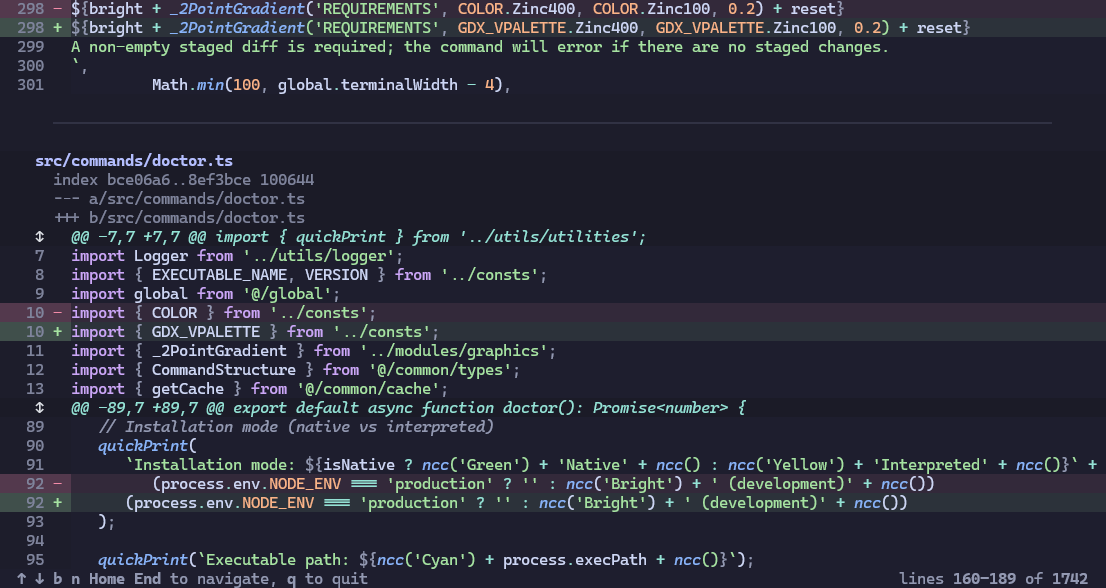
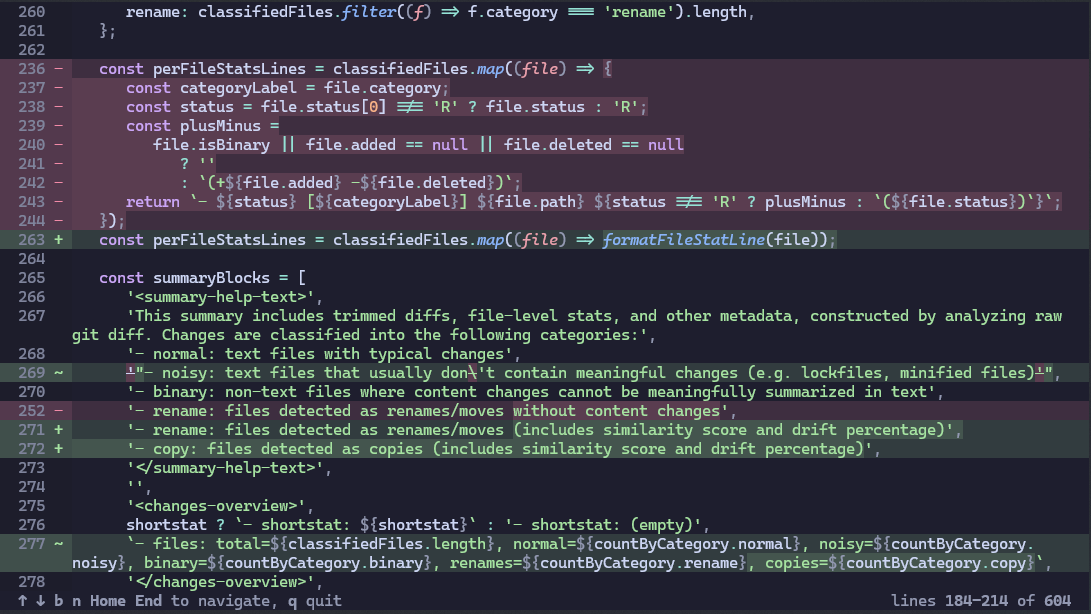
🧹 chore: Update README with new parallel commands and expanded command reference

diff --git a/README.md b/README.md
@@ -171,6 +171,9 @@ gdx parallel list    # See where your forks are
 gdx parallel switch  # Switch between forks (requires shell integration)
 gdx parallel open    # Open any fork in your default editor
 gdx parallel join    # Merge changes from a fork back to main
+gdx parallel sync    # Sync forks with the main (origin worktree)
+gdx parallel pick    # Cherry-pick a commit from between forks
+gdx parallel remove  # Remove a fork when you're done
 ```
 
 Additionally, `gdx parallel fork` can auto-initialize submodules and
@@ -181,7 +184,7 @@ getting the fork ready for work in no time.
 ### 5. Git Output for Human (Experimental)
 
 Admit it, Git's default output isn't exactly designed for readability.
-`gdx` enhances the output of some commands with better formatting to make it more enjoyable and less "git" to read.
+`gdx` enhances the output of some commands with better formatting to make it less "git" to read.
 
 Currently, we only support enhanced formatting for `gdx diff` and `gdx show`,
 but more commands will be added in the future. (feel free to request what commands you'd like to see enhanced!)
@@ -234,19 +237,26 @@ Tools to help you feel productive without leaving the terminal.
 
 ## Command Reference
 
-| Command      | Expansion / Function                                               |
-| :----------- | :----------------------------------------------------------------- |
-| `s`, `stat`  | `git status` (use `-r` recursively run "status" on all submodules) |
-| `lg`, `lo`   | `git log --oneline --graph --all --decorate`                       |
-| `sw`, `swit` | `git switch`                                                       |
-| `br`, `bra`  | `git branch`                                                       |
-| `cmi`, `com` | `git commit` (Try `gdx cmi auto` for AI messages!)                 |
-| `res`        | `git reset` (supports `res ~3`, `res -h` expansion)                |
-| `dif`        | `git diff` (supports `dif ~3`, `dif origin ~2` expansion)          |
-| `sho`        | `git show` (supports `sho ~3`, `sho origin ~2` expansion)          |
-| `sta`, `st`  | `git stash`                                                        |
-| `lint`       | Run pre-push checks (spelling, secrets, etc.)                      |
-| `gdx-config` | Manage gdx configuration                                           |
+| Command           | Expansion / Function                                               |
+| :---------------- | :----------------------------------------------------------------- |
+| `s`, `stat`       | `git status` (use `-r` recursively run "status" on all submodules) |
+| `lg`, `lo`        | `git log --oneline --graph --all --decorate`                       |
+| `sw`, `swit`      | `git switch`                                                       |
+| `br`, `bra`       | `git branch`                                                       |
+| `cmi`, `com`      | `git commit` (Try `gdx cmi auto` for AI messages!)                 |
+| `res`             | `git reset` (supports `res ~3`, `res -h` expansion)                |
+| `dif`             | `git diff` (supports `dif ~3`, `dif origin ~2` expansion)          |
+| `sho`             | `git show` (supports `sho ~3`, `sho origin ~2` expansion)          |
+| `sta`, `st`       | `git stash`                                                        |
+| `lint`            | Run pre-push checks (spelling, secrets, etc.)                      |
+| `gdx-config`      | Manage gdx configuration                                           |
+| `reword`, `rew`   | Rewrite commit messages                                            |
+| `parallel`, `par` | Manage parallel worktrees for the current branch                   |
+| `stats`           | Show contribution statistics and metrics for the current repo      |
+| `graph`           | Render a GitHub-style contribution heatmap in the terminal         |
+| `nocap`           | Roast your latest commit message with AI                           |
+| `clear`           | Wipe changes in the working directory with a backup patch          |
+| `cache`           | Manage GDX's cache                                                 |
 
 _Run `gdx ghelp` to see the full list of expansions._
 
